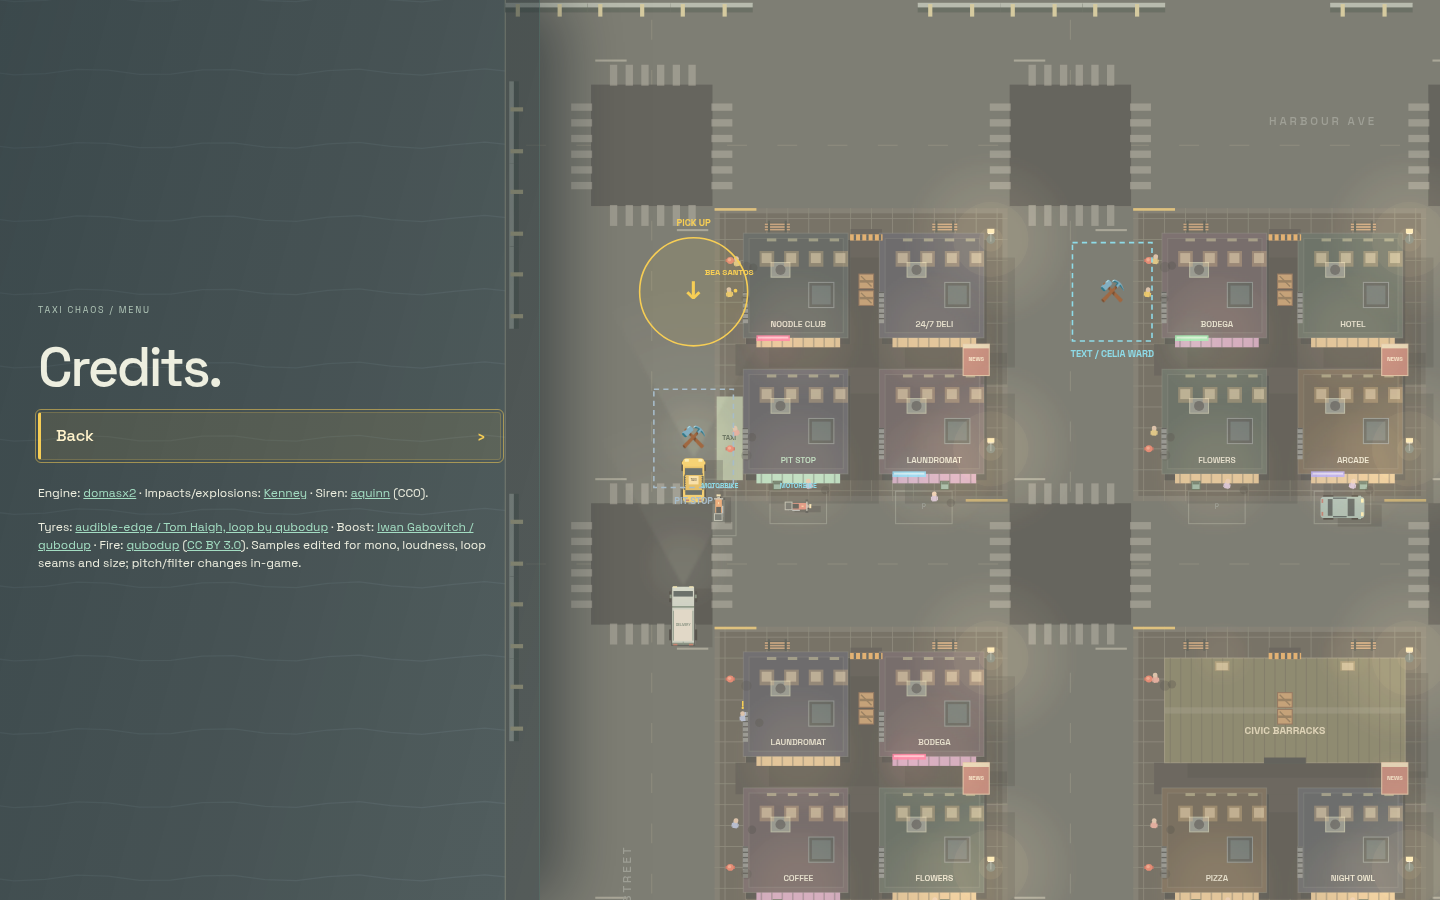
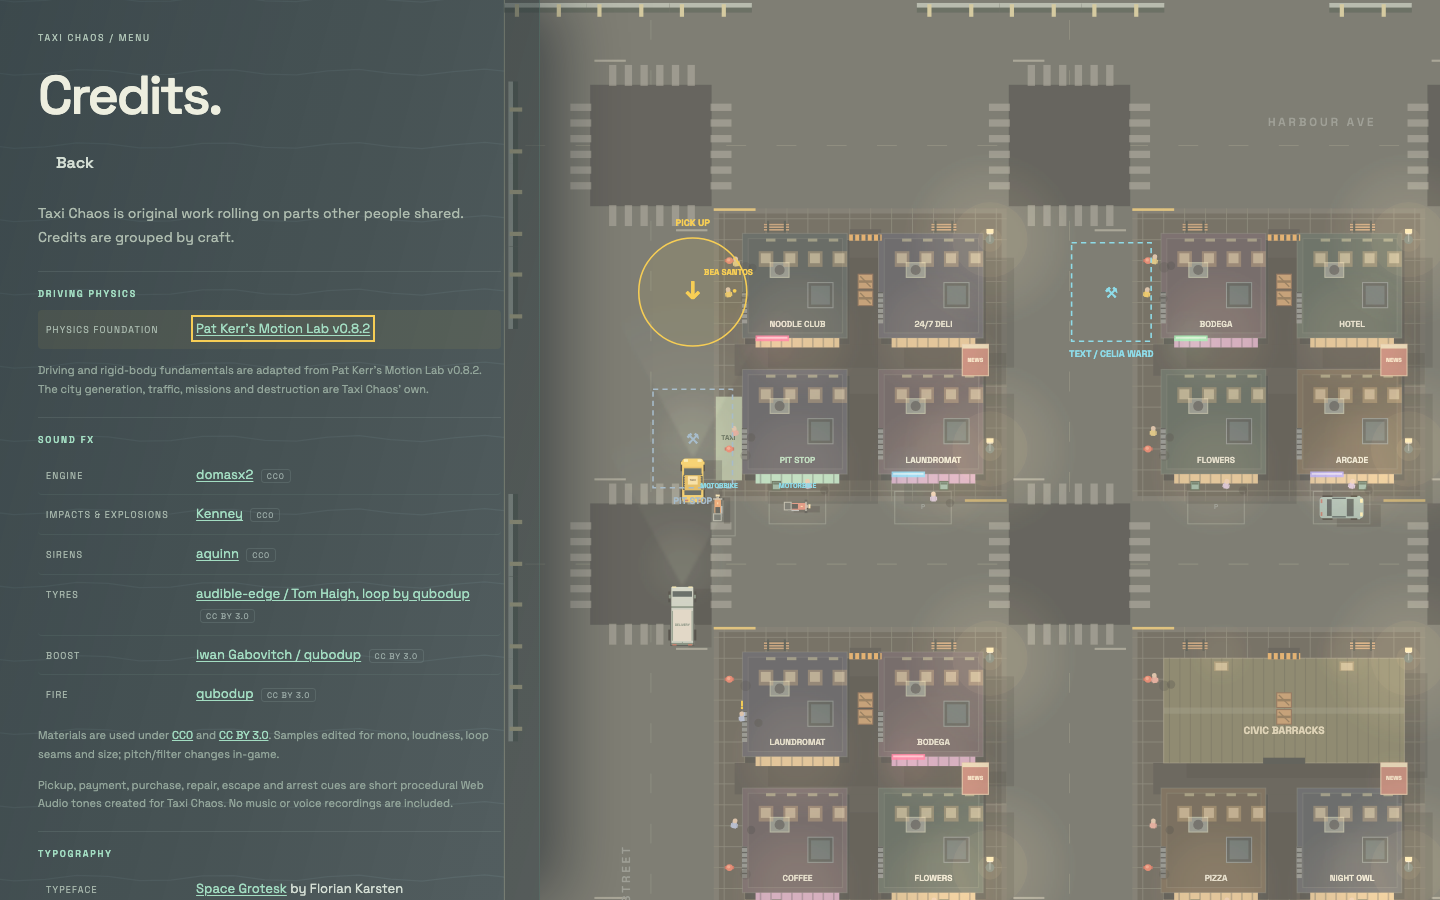
style: group credits by craft and align drawer presentation

diff --git a/src/credits.ts b/src/credits.ts
@@ -1,0 +1,52 @@
+// Credits page data. One authoring source feeds both the grouped credits page
+// and the compact inline note used by the lab, so attribution and licence
+// wording never drift. Standalone builds also embed src/assets/audio/CREDITS.md
+// and src/assets/OFL.txt as HTML comments (see vite.config.ts).
+const escape = (text: string) => text.replace(/[&<>"']/g, char => ({ '&': '&amp;', '<': '&lt;', '>': '&gt;', '"': '&quot;', "'": '&#39;' }[char]!));
+const link = (label: string, href: string) => `<a href="${href}" target="_blank" rel="noopener">${escape(label)}</a>`;
+
+const LICENCE_URL = { CC0: 'https://creativecommons.org/publicdomain/zero/1.0/', 'CC BY 3.0': 'https://creativecommons.org/licenses/by/3.0/' } as const;
+export type AudioLicence = keyof typeof LICENCE_URL;
+
+// Sound samples, grouped by the role each one plays in the mix.
+export type AudioCredit = { role: string; label: string; inlineLabel: string; href: string; licence: AudioLicence };
+export const audioCredits: readonly AudioCredit[] = [
+  { role: 'Engine', label: 'domasx2', inlineLabel: 'Engine', href: 'https://opengameart.org/content/racing-car-engine-sound-loops', licence: 'CC0' },
+  { role: 'Impacts & explosions', label: 'Kenney', inlineLabel: 'Impacts/explosions', href: 'https://kenney.nl/assets', licence: 'CC0' },
+  { role: 'Sirens', label: 'aquinn', inlineLabel: 'Siren', href: 'https://opengameart.org/content/sirens-and-alarm-noise', licence: 'CC0' },
+  { role: 'Tyres', label: 'audible-edge / Tom Haigh, loop by qubodup', inlineLabel: 'Tyres', href: 'https://opengameart.org/content/car-tire-squeal-skid-loop', licence: 'CC BY 3.0' },
+  { role: 'Boost', label: 'Iwan Gabovitch / qubodup', inlineLabel: 'Boost', href: 'https://opengameart.org/content/racing-speed-boost-sound', licence: 'CC BY 3.0' },
+  { role: 'Fire', label: 'qubodup', inlineLabel: 'Fire', href: 'https://opengameart.org/content/fire-loop', licence: 'CC BY 3.0' },
+];
+
+// The compact two-line form kept beside the lab's audio controls.
+export function audioCreditsMarkup() {
+  const group = (licence: AudioLicence) => audioCredits.filter(credit => credit.licence === licence).map(credit => `${escape(credit.inlineLabel)}: ${link(credit.label, credit.href)}`).join(' · ');
+  return `<div class="audio-credits"><p>${group('CC0')} (CC0).</p><p>${group('CC BY 3.0')} (${link('CC BY 3.0', LICENCE_URL['CC BY 3.0'])}). Samples edited for mono, loudness, loop seams and size; pitch/filter changes in-game.</p></div>`;
+}
+
+const row = (role: string, value: string, tag = '') =>
+  `<div class="credit-row"><dt>${escape(role)}</dt><dd>${value}${tag ? ` <span class="credit-tag">${escape(tag)}</span>` : ''}</dd></div>`;
+const section = (id: string, title: string, rows: string, notes = '') =>
+  `<section class="credits-section" aria-labelledby="${id}"><h3 class="credits-title" id="${id}">${escape(title)}</h3><dl class="credits-list">${rows}</dl>${notes}</section>`;
+
+// The Credits page. Content is grouped by discipline, the way film and game
+// credits list who did what, and preserves every source link and licence.
+export function creditsMarkup() {
+  const soundRows = audioCredits.map(credit => row(credit.role, link(credit.label, credit.href), credit.licence)).join('');
+  return `<p class="intro-copy">Taxi Chaos is original work rolling on parts other people shared. Credits are grouped by craft.</p>
+    ${section('credits-physics', 'Driving physics',
+      row('Physics foundation', link("Pat Kerr's Motion Lab v0.8.2", 'https://patkerr.co.uk/motion-lab/')),
+      '<p class="credit-note">Driving and rigid-body fundamentals are adapted from Pat Kerr\u2019s Motion Lab v0.8.2. The city generation, traffic, missions and destruction are Taxi Chaos\u2019 own.</p>')}
+    ${section('credits-sound', 'Sound FX', soundRows,
+      `<p class="credit-note">Materials are used under ${link('CC0', LICENCE_URL.CC0)} and ${link('CC BY 3.0', LICENCE_URL['CC BY 3.0'])}. Samples edited for mono, loudness, loop seams and size; pitch/filter changes in-game.</p>
+      <p class="credit-note">Pickup, payment, purchase, repair, escape and arrest cues are short procedural Web Audio tones created for Taxi Chaos. No music or voice recordings are included.</p>`)}
+    ${section('credits-type', 'Typography',
+      row('Typeface', `${link('Space Grotesk', 'https://fonts.google.com/specimen/Space+Grotesk')} by Florian Karsten`),
+      `<p class="credit-note">Distributed under the ${link('SIL Open Font License 1.1', 'https://github.com/floriankarsten/space-grotesk/blob/master/OFL.txt')} and embedded in the standalone build.</p>`)}
+    ${section('credits-art', 'Art & characters',
+      row('City art', 'Drawn procedurally, not texture-based.') +
+      row('Portraits', 'User-supplied PNG portraits for Mia, Frankie, Rosa, Celia, Adrian Vale and Bea.') +
+      row('Identity cards', 'Nine Open Shore SVG identity cards (Mara, Eli, Victor, Leila, Harker, Lena, Iris, Tom and Ruth) are original provisional vector art created for Taxi Chaos.'),
+      '<p class="credit-note">Every portrait is bundled inline as a data URL, with no external image service.</p>')}`;
+}

diff --git a/src/credits.test.ts b/src/credits.test.ts
@@ -1,0 +1,80 @@
+import { describe, expect, it } from 'vitest';
+import { audioCredits, audioCreditsMarkup, creditsMarkup } from './credits';
+
+describe('credits page', () => {
+  const html = creditsMarkup();
+
+  it('keeps every attribution, source link and licence wording', () => {
+    for (const credit of audioCredits) {
+      expect(html).toContain(`href="${credit.href}"`);
+      expect(html).toContain(credit.label);
+    }
+    expect(html).toContain('CC0');
+    expect(html).toContain('CC BY 3.0');
+    expect(html).toContain('https://creativecommons.org/publicdomain/zero/1.0/');
+    expect(html).toContain('https://creativecommons.org/licenses/by/3.0/');
+    expect(html).toContain('Samples edited for mono, loudness, loop seams and size; pitch/filter changes in-game.');
+    expect(html).toContain('short procedural Web Audio tones created for Taxi Chaos');
+    expect(html).toContain('No music or voice recordings are included.');
+    expect(html).toContain('https://patkerr.co.uk/motion-lab/');
+    expect(html).toContain('Motion Lab v0.8.2');
+    expect(html).toContain('Driving and rigid-body fundamentals are adapted from');
+    expect(html).toContain('https://fonts.google.com/specimen/Space+Grotesk');
+    expect(html).toContain('Florian Karsten');
+    expect(html).toContain('SIL Open Font License 1.1');
+    expect(html).toContain('https://github.com/floriankarsten/space-grotesk/blob/master/OFL.txt');
+    expect(html).toContain('Drawn procedurally, not texture-based.');
+    expect(html).toContain('User-supplied PNG portraits for Mia, Frankie, Rosa, Celia, Adrian Vale and Bea.');
+    expect(html).toContain('original provisional vector art created for Taxi Chaos.');
+  });
+
+  it('groups content by functional role with an accessible heading per group', () => {
+    const sections = html.match(/<section class="credits-section" aria-labelledby="([^"]+)">/g) ?? [];
+    expect(sections).toHaveLength(4);
+    expect(html).toContain('Driving physics');
+    expect(html).toContain('Sound FX');
+    expect(html).toContain('Typography');
+    expect(html).toContain('Art &amp; characters');
+    for (const id of html.match(/aria-labelledby="([^"]+)"/g) ?? []) {
+      const value = id.slice('aria-labelledby="'.length, -1);
+      expect(html).toContain(`id="${value}"`);
+    }
+    expect(html).toContain('<dl class="credits-list">');
+    expect((html.match(/<dt>/g) ?? []).length).toBe((html.match(/<dd>/g) ?? []).length);
+    expect((html.match(/<dt>/g) ?? []).length).toBeGreaterThan(audioCredits.length);
+    expect(html).not.toContain('<details');
+    expect(html).not.toContain('<summary');
+  });
+
+  it('splits the sound credits into one row per mix role', () => {
+    expect(html).toContain('<dt>Engine</dt>');
+    expect(html).toContain('<dt>Impacts &amp; explosions</dt>');
+    expect(html).toContain('<dt>Sirens</dt>');
+    expect(html).toContain('<dt>Tyres</dt>');
+    expect(html).toContain('<dt>Boost</dt>');
+    expect(html).toContain('<dt>Fire</dt>');
+    expect((html.match(/<span class="credit-tag">/g) ?? []).length).toBe(audioCredits.length);
+  });
+
+  it('escapes authored text', () => {
+    expect(html).toContain('Impacts &amp; explosions');
+    expect(html).not.toContain('Impacts & explosions');
+    expect(html).toContain('Pat Kerr&#39;s Motion Lab v0.8.2');
+  });
+});
+
+describe('inline audio credits', () => {
+  it('keeps the compact lab note and its source links unchanged', () => {
+    const html = audioCreditsMarkup();
+    expect(html).toContain('<div class="audio-credits">');
+    expect(html).toContain('Engine: <a href="https://opengameart.org/content/racing-car-engine-sound-loops" target="_blank" rel="noopener">domasx2</a>');
+    expect(html).toContain('Impacts/explosions: <a href="https://kenney.nl/assets" target="_blank" rel="noopener">Kenney</a>');
+    expect(html).toContain('Siren: <a href="https://opengameart.org/content/sirens-and-alarm-noise" target="_blank" rel="noopener">aquinn</a> (CC0).');
+    expect(html).toContain('Tyres: <a href="https://opengameart.org/content/car-tire-squeal-skid-loop" target="_blank" rel="noopener">audible-edge / Tom Haigh, loop by qubodup</a>');
+    expect(html).toContain('Boost: <a href="https://opengameart.org/content/racing-speed-boost-sound" target="_blank" rel="noopener">Iwan Gabovitch / qubodup</a>');
+    expect(html).toContain('Fire: <a href="https://opengameart.org/content/fire-loop" target="_blank" rel="noopener">qubodup</a>');
+    expect(html).toContain('<a href="https://creativecommons.org/licenses/by/3.0/" target="_blank" rel="noopener">CC BY 3.0</a>');
+    expect(html).toContain('Samples edited for mono, loudness, loop seams and size; pitch/filter changes in-game.');
+    for (const credit of audioCredits) expect(html).toContain(`href="${credit.href}"`);
+  });
+});

diff --git a/src/drawer.css b/src/drawer.css
@@ -23,6 +23,22 @@
 .splash-modal .menu-field:has([data-selected]){background:#f7ce5510;border-color:#f7ce5555}
 .splash-modal .audio-settings{gap:12px;padding:16px 8px;font-size:13px}.splash-modal .audio-settings label{min-height:44px}.splash-modal .audio-settings label:not(.audio-toggle){grid-template-columns:65px minmax(0,1fr) 36px}.splash-modal .audio-settings input[type=range]{min-width:0}.splash-modal .audio-settings .menu-item{font-size:13px}
 .splash-modal .audio-credits{font-size:13px;line-height:1.8;margin:24px 0}.splash-modal .audio-credits p{font-size:12px;margin:16px 0}.splash-modal .audio-credits a{overflow-wrap:anywhere}.splash-modal a[data-selected]{outline:2px solid var(--gold);outline-offset:3px}
+/* Credits reuse the settings palette, grouped by craft like film and game credits. */
+.credits-section{margin:18px 0 0;padding-top:16px;border-top:1px solid var(--border)}
+.credits-title{font-size:9px;font-weight:600;letter-spacing:1.8px;text-transform:uppercase;color:var(--mint);margin:0 0 10px}
+.credits-list{display:grid;gap:0;margin:0}
+.credit-row{display:grid;grid-template-columns:minmax(88px,30%) minmax(0,1fr);gap:4px 16px;align-items:baseline;padding:9px 8px;border-bottom:1px solid #a3ddc214;border-radius:4px;transition:background .16s ease,border-color .16s ease}
+.credit-row:last-child{border-bottom:0}
+.credit-row dt{font-size:9px;letter-spacing:1.2px;text-transform:uppercase;color:#a7b7ac;line-height:1.6}
+.credit-row dd{min-width:0;margin:0;font-size:13px;line-height:1.6;color:#d4ded4;overflow-wrap:anywhere}
+.credit-row dd a{color:var(--mint);text-decoration:underline;text-underline-offset:2px}
+.credit-row:has(a[data-selected]){background:#f7ce5510;border-color:#f7ce5540;color:#fff3cb}
+.credit-row a[data-selected]{outline:2px solid var(--gold);outline-offset:3px}
+.credit-tag{margin-left:4px;padding:1px 5px;border:1px solid #a3b7b02e;border-radius:3px;font-size:8px;letter-spacing:.8px;color:#9caca8;white-space:nowrap}
+.credit-note{font-size:11px;line-height:1.7;color:#93a69b;margin:12px 0 0}
+.credit-note a{color:var(--mint);text-decoration:underline;overflow-wrap:anywhere}
+@media(max-width:420px){.credit-row{grid-template-columns:1fr;gap:2px}}
+@media(prefers-reduced-motion:reduce){.credit-row{transition:none}}
 .splash-modal .notebook-actions{flex-direction:column}.splash-modal .campaign-summary{margin-top:0}.drawer-page>p,.splash-modal .notebook-entries p{font-size:13px;line-height:1.7;color:#b8c7bd}.splash-modal .eyebrow{line-height:1.7}
 .drawer-entering{animation:drawer-in .24s cubic-bezier(.2,.75,.25,1) both}
 @keyframes drawer-in{from{opacity:0;transform:translateX(calc(18px * var(--drawer-direction,1)))}to{opacity:1;transform:translateX(0)}}

diff --git a/src/audio-controls.ts b/src/audio-controls.ts
@@ -1,4 +1,5 @@
 import { menuItem } from './drawer-markup';
+import { audioCreditsMarkup } from './credits';
 import type { AudioFX } from './audio';
 
 export function audioMarkup(audio: AudioFX, { credits = 'inline' }: { credits?: 'inline' | 'page' } = {}) {
@@ -10,9 +11,6 @@ export function audioMarkup(audio: AudioFX, { credits = 'inline' }: { credits?: 
     <small data-audio-status>Sound starts with your first click or driving key.</small>
     ${credits === 'page' ? menuItem('Sound credits & licences', { id: 'menu-credits', page: 'credits' }) : audioCreditsMarkup()}
   </fieldset>`;
-}
-export function audioCreditsMarkup() {
-  return `<div class="audio-credits"><p>Engine: <a href="https://opengameart.org/content/racing-car-engine-sound-loops" target="_blank" rel="noopener">domasx2</a> · Impacts/explosions: <a href="https://kenney.nl/assets" target="_blank" rel="noopener">Kenney</a> · Siren: <a href="https://opengameart.org/content/sirens-and-alarm-noise" target="_blank" rel="noopener">aquinn</a> (CC0).</p><p>Tyres: <a href="https://opengameart.org/content/car-tire-squeal-skid-loop" target="_blank" rel="noopener">audible-edge / Tom Haigh, loop by qubodup</a> · Boost: <a href="https://opengameart.org/content/racing-speed-boost-sound" target="_blank" rel="noopener">Iwan Gabovitch / qubodup</a> · Fire: <a href="https://opengameart.org/content/fire-loop" target="_blank" rel="noopener">qubodup</a> (<a href="https://creativecommons.org/licenses/by/3.0/" target="_blank" rel="noopener">CC BY 3.0</a>). Samples edited for mono, loudness, loop seams and size; pitch/filter changes in-game.</p></div>`;
 }
 export function bindAudioControls(root: HTMLElement, audio: AudioFX) {
   for (const input of Array.from(root.querySelectorAll<HTMLInputElement>('[data-audio]'))) {

diff --git a/src/drawer-view.ts b/src/drawer-view.ts
@@ -3,7 +3,7 @@ import type { SettingsControls } from './settings';
 import { settingRow } from './setting-controls';
 import { calendarLabel } from './campaign/clock';
 import { notebookMarkup, notebookGuideMarkup } from './campaign/view';
-import { audioCreditsMarkup } from './audio-controls';
+import { creditsMarkup } from './credits';
 import { splashMarkup, streetRulesMarkup, shiftMarkup } from './splash';
 import { drawerHeading, menuItem, type DrawerPage } from './drawer-markup';
 
@@ -47,7 +47,7 @@ export function drawerMarkup(page: DrawerPage, { game, settings, saved }: { game
     case 'settings': body = settingsMarkup(settings); break;
     case 'rules': body = streetRulesMarkup(); break;
     case 'shift': body = shiftMarkup(game, campaignMarkup(game)); break;
-    case 'credits': body = audioCreditsMarkup(); break;
+    case 'credits': body = creditsMarkup(); break;
     case 'notebook-guide': body = notebookGuideMarkup(game); break;
   }
   const { title, parent } = pages[page];

diff --git a/src/main.ts b/src/main.ts
@@ -155,7 +155,7 @@ document.addEventListener('pointerdown', event => {
 // finger is down can shift a scrolled menu row away from the release position.
 document.addEventListener('click', () => detectInput(inputDevice), { capture: true });
 function pause() { if (game.mode === 'playing') game.setMode('paused'); else if (game.mode === 'paused' || game.mode === 'garage') playFromMenu(); }
-document.addEventListener('contextmenu', event => { if (event.target instanceof Element && !event.target.closest('input, select, textarea, .audio-credits a')) event.preventDefault(); });
+document.addEventListener('contextmenu', event => { if (event.target instanceof Element && !event.target.closest('input, select, textarea, .audio-credits a, .credits-section a')) event.preventDefault(); });
 window.addEventListener('keydown', e => {
   detectInput('keyboard');
   if (mapEditor?.handleKey(e)) return;

diff --git a/README.md b/README.md
@@ -132,7 +132,7 @@ The game is published at **https://lbarasti.com/taxi-chaos/**. The **Deploy GitH
 
 ## Credits and licences
 
-Driving and rigid-body fundamentals are adapted from **Pat Kerr's [Motion Lab v0.8.2](https://patkerr.co.uk/motion-lab/)**; attribution is included in the source and game welcome screen.
+Driving and rigid-body fundamentals are adapted from **Pat Kerr's [Motion Lab v0.8.2](https://patkerr.co.uk/motion-lab/)**; attribution is included in the source and game welcome screen. The in-game **Credits** screen groups every attribution by craft — driving physics, sound FX, typography and art — and keeps each source link and licence.
 
 The locally embedded **Space Grotesk** font is by Florian Karsten and distributed under the SIL Open Font License. Font attribution and licence are in [`src/assets/`](src/assets/).
 
